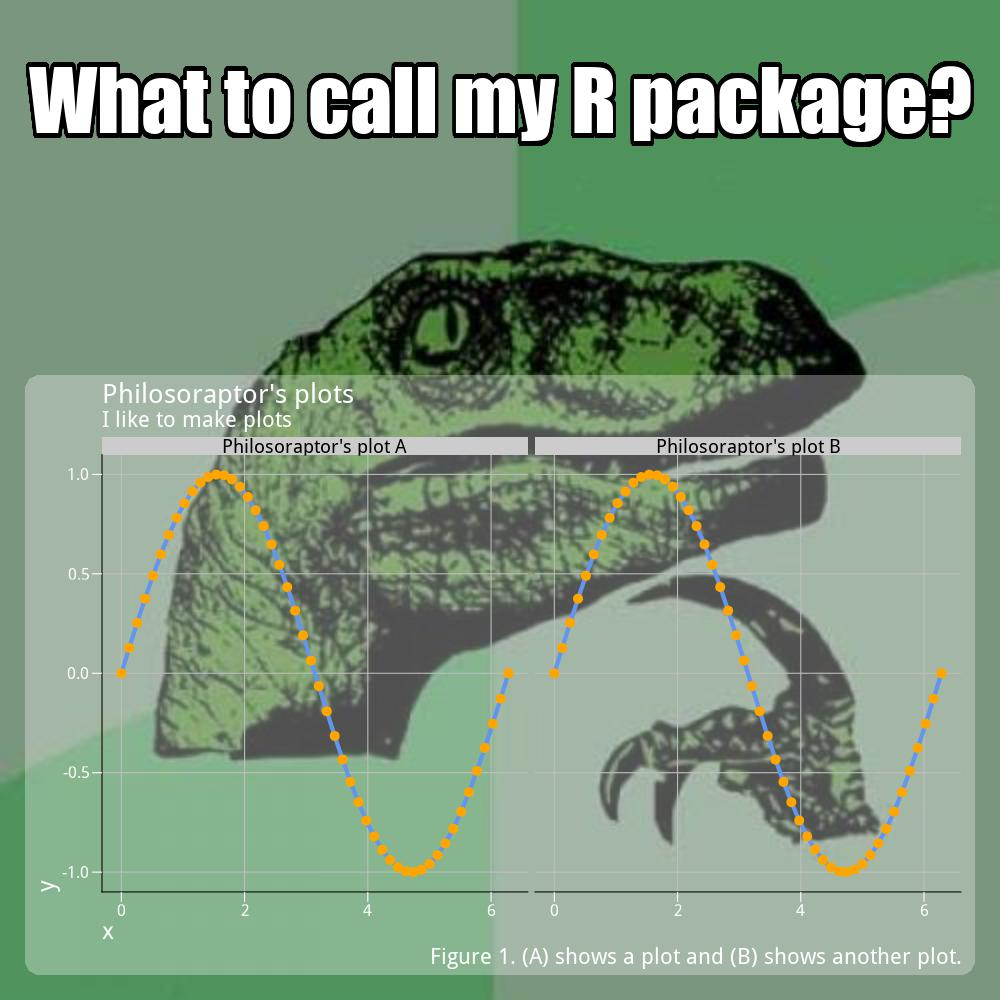
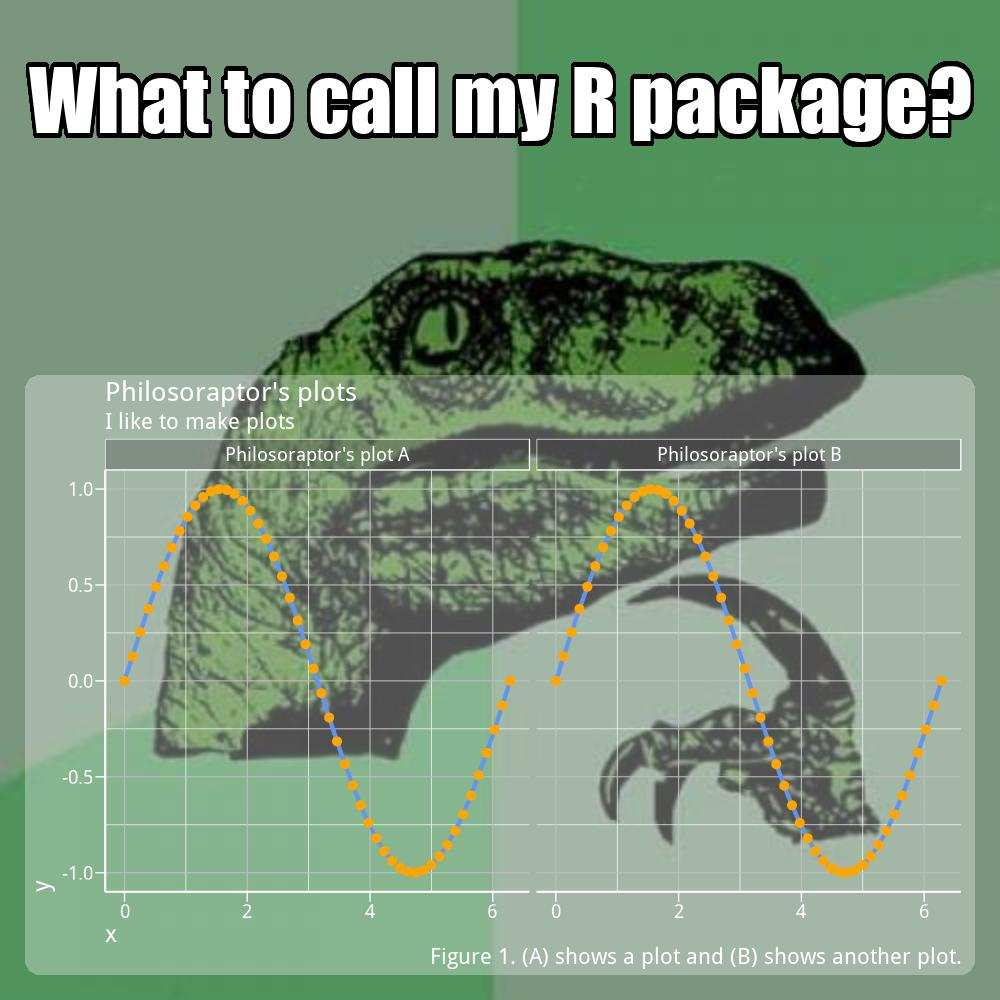
Update docs.

diff --git a/docs/articles/memery.html b/docs/articles/memery.html
@@ -197,17 +197,29 @@ p &lt;-<span class="st"> </span><span class="kw">ggplot</span>(d, <span class="k
 <span class="kw"><a href="../reference/meme.html">meme</a></span>(loc, lab, <span class="st">"meme4a.jpg"</span>, <span class="dt">inset =</span> p)</code></pre></div>
 <p style="text-align:center;">
 <img src="meme4a.jpg"></p>
-<p>Note the default semi-transparent background that allows the meme image to show through when the inset has a large coverage area. The style includes rounded corners. This is from the <code>grid</code> package. It is a rectangle layer in the same viewport as <code>p</code>; it is not part of the ggplot theme. The latter is separate and can be controlled by passing your own theme to <code>ggtheme</code> or setting this to NULL, which falls back on whatever theme is set for your plot <code>p</code>. The default theme for meme plots comes from <code>memetheme</code>.</p>
-<p>An opaque background for the inset is more suitable for a thumbnail image that does not get in the way of the meme. The following example shows a bottom left corner inset graphic. An empty theme is used since there is no room in the inset for plot annotations.</p>
-<div class="sourceCode"><pre class="sourceCode r"><code class="sourceCode r"><span class="kw">library</span>(cowplot)
-p2 &lt;-<span class="st"> </span><span class="kw">ggplot</span>(<span class="kw">data_frame</span>(<span class="dt">x =</span> <span class="kw">rnorm</span>(<span class="dv">10000</span>)), <span class="kw">aes</span>(x)) +<span class="st"> </span><span class="kw">geom_density</span>(<span class="dt">adjust =</span> <span class="dv">2</span>, 
-    <span class="dt">size =</span> <span class="dv">1</span>) +<span class="st"> </span><span class="kw">theme_nothing</span>()
+<p>Note the default semi-transparent background that allows the meme image to show through when the inset has a large coverage area. The style includes rounded corners. This is from the <code>grid</code> package. It is a rectangle layer in the same viewport as <code>p</code>; it is not part of the ggplot theme. The latter is separate and can be controlled by passing your own theme to <code>ggtheme</code> or setting this to <code>NULL</code>, which falls back on whatever theme is set for your plot <code>p</code>. The default theme for meme plots comes from <code>memetheme</code>. Naturally, the theme will need to be customized for many meme plots because underlying meme images are arbitrary.</p>
+<div id="inset-templates-thumbnails" class="section level3">
+<h3 class="hasAnchor">
+<a href="#inset-templates-thumbnails" class="anchor"></a>Inset templates: thumbnails</h3>
+<p>The graph overlay does not fit well, namely the annotations. This will be adjusted in a moment. First, a quick look at other position templates. An opaque background for the inset is more suitable for a thumbnail image that does not get in the way of the meme. The following example shows a bottom left corner inset graphic. An empty theme is used since there is no room in the inset for plot annotations.</p>
+<div class="sourceCode"><pre class="sourceCode r"><code class="sourceCode r">p2 &lt;-<span class="st"> </span><span class="kw">ggplot</span>(<span class="kw">data_frame</span>(<span class="dt">x =</span> <span class="kw">rnorm</span>(<span class="dv">10000</span>)), <span class="kw">aes</span>(x)) +<span class="st"> </span><span class="kw">geom_density</span>(<span class="dt">adjust =</span> <span class="dv">2</span>, 
+    <span class="dt">colour =</span> <span class="st">"white"</span>, <span class="dt">size =</span> <span class="dv">1</span>)
 pos &lt;-<span class="st"> </span><span class="kw">list</span>(<span class="dt">w =</span> <span class="fl">0.2</span>, <span class="dt">h =</span> <span class="fl">0.2</span>, <span class="dt">x =</span> <span class="fl">0.125</span>, <span class="dt">y =</span> <span class="fl">0.125</span>)
 <span class="kw"><a href="../reference/meme.html">meme</a></span>(loc, lab[<span class="dv">1</span>], <span class="st">"meme4b.jpg"</span>, <span class="dt">inset =</span> p2, <span class="dt">inset_bg =</span> <span class="kw">list</span>(<span class="dt">fill =</span> <span class="st">"dodgerblue"</span>, 
-    <span class="dt">col =</span> <span class="st">"black"</span>), <span class="dt">inset_pos =</span> pos)</code></pre></div>
+    <span class="dt">col =</span> <span class="st">"black"</span>), <span class="dt">inset_pos =</span> pos, <span class="dt">ggtheme =</span> <span class="kw">theme_void</span>())</code></pre></div>
 <p style="text-align:center;">
 <img src="meme4b.jpg"></p>
-<p>Since the philosoraptor image is a bit small for the detailed plot above, it is enlarged below when including the inset plot again. For now, drop the second text label. It will be relocated later.</p>
+<p>Above, the size and position was specified explicitly with <code>pos</code>. However, the same could be done using <code><a href="../reference/inset.html">inset_position(type = "bl")</a></code>. The available position templates include the four corners via <code>tl</code>, <code>tr</code>, <code>br</code> and <code>bl</code> for top right, top left, bottom left and bottom right, respectively. There is also a <code>center</code> option. <code>inset_position</code> also takes <code>size</code> and <code>margin</code> arguments to further specify the thumbnail placement.</p>
+<div class="sourceCode"><pre class="sourceCode r"><code class="sourceCode r">pos &lt;-<span class="st"> </span><span class="kw"><a href="../reference/inset.html">inset_position</a></span>(<span class="st">"bl"</span>, <span class="dt">size =</span> <span class="kw">c</span>(<span class="fl">0.4</span>, <span class="fl">0.2</span>), <span class="dt">margin =</span> <span class="kw">c</span>(<span class="fl">0.025</span>, <span class="fl">0.05</span>))
+<span class="kw"><a href="../reference/meme.html">meme</a></span>(loc, lab[<span class="dv">1</span>], <span class="st">"meme4b2.jpg"</span>, <span class="dt">inset =</span> p2, <span class="dt">inset_bg =</span> <span class="kw">list</span>(<span class="dt">fill =</span> <span class="st">"firebrick1"</span>, 
+    <span class="dt">col =</span> <span class="st">"white"</span>), <span class="dt">inset_pos =</span> pos, <span class="dt">ggtheme =</span> <span class="kw">theme_void</span>())</code></pre></div>
+<p style="text-align:center;">
+<img src="meme4b2.jpg"></p>
+</div>
+<div id="improved-fit" class="section level3">
+<h3 class="hasAnchor">
+<a href="#improved-fit" class="anchor"></a>Improved fit</h3>
+<p>The philosoraptor image is a bit small for the first detailed plot shown above where the annotations go off the image. For convenience, it is enlarged below by simply using <code>mult = 2</code> when including the full graph again. For now, drop the second text label. It will be relocated later.</p>
 <div class="sourceCode"><pre class="sourceCode r"><code class="sourceCode r"><span class="kw"><a href="../reference/meme.html">meme</a></span>(loc, lab[<span class="dv">1</span>], <span class="st">"meme4c.jpg"</span>, <span class="dt">size =</span> <span class="dv">2</span>, <span class="dt">inset =</span> p, <span class="dt">mult =</span> <span class="dv">2</span>)</code></pre></div>
 <p style="text-align:center;">
 <img src="meme4c.jpg"></p>
@@ -219,6 +231,7 @@ pos &lt;-<span class="st"> </span><span class="kw">list</span>(<span class="dt">
 <p>You can also increase the radius of the rounded corners, with, e.g.</p>
 <div class="sourceCode"><pre class="sourceCode r"><code class="sourceCode r"><span class="kw">list</span>(<span class="dt">r =</span> <span class="kw">unit</span>(<span class="fl">0.1</span>, <span class="st">"snpc"</span>))</code></pre></div>
 <p>Setting to zero will remove the rounding.</p>
+</div>
 </div>
 <div id="multiple-labels-and-vector-arguments" class="section level2">
 <h2 class="hasAnchor">

diff --git a/docs/reference/inset.html b/docs/reference/inset.html
@@ -156,7 +156,7 @@
     <p>Templates for the position and background of a ggplot inset.</p>
     
 
-    <pre class="usage"><span class='fu'>inset_position</span>(<span class='kw'>type</span> <span class='kw'>=</span> <span class='st'>"default"</span>)
+    <pre class="usage"><span class='fu'>inset_position</span>(<span class='kw'>type</span> <span class='kw'>=</span> <span class='st'>"default"</span>, <span class='kw'>size</span> <span class='kw'>=</span> <span class='fl'>0.2</span>, <span class='kw'>margin</span> <span class='kw'>=</span> <span class='fl'>0.025</span>)
 
 <span class='fu'>inset_background</span>(<span class='kw'>type</span> <span class='kw'>=</span> <span class='st'>"default"</span>)
 
@@ -169,40 +169,63 @@
       <th>type</th>
       <td><p>character, name of template.</p></td>
     </tr>
+    <tr>
+      <th>size</th>
+      <td><p>numeric, width (length-1) or width and height (length-2) of inset. See details.</p></td>
+    </tr>
+    <tr>
+      <th>margin</th>
+      <td><p>numeric, x-axis margin (length-1) or x- and y-axis margins (length-2) around corner insets. See details.</p></td>
+    </tr>
     </table>
     
     <h2 class="hasAnchor" id="value"><a class="anchor" href="#value"></a>Value</h2>
 
-    <p>a list of arguments passed to either <code>inset_pos</code> or <code>inset_background</code> in <code>meme</code>.</p>
+    <p>a list of arguments passed to either <code>inset_pos</code> or <code>inset_bg</code> in <code>meme</code>.</p>
     
     <h2 class="hasAnchor" id="details"><a class="anchor" href="#details"></a>Details</h2>
 
     <p><code>inset_position</code> and <code>inset_background</code> assist with some basic options for position and background of the optional ggplot inset graphic.
 <code>inset_templates</code> can be used to view the available templates. See examples.
-If a template is not available to suit your needs, provide your own argument list to <code>meme</code>.</p>
+If a template is not available to suit your needs, provide your own argument list to <code>meme</code>
+in the form of, e.g., <code>inset_pos = list(w = 0.95, h = 0.6, x = 0.5, y = 0.325)</code>.</p><h3>Size and position</h3>
+    The coordinate system for the meme plot ranges from zero to one in x and y.
+The width, height and (x,y) center defined by <code>inset_position</code> arguments therefore take values between zero and one.
+    The default position is for an inset plot that takes up 95\<!-- % of the width and 60\\% of the height of the meme plot, -->
+with 2.5\<!-- % margins on the sides and bottom. Other templates include four corner thumbnails. -->
+To use these, set <code>type</code> equal to <code>"tl"</code>, <code>"tr"</code>, <code>"br"</code> or <code>"bl"</code>,
+for top right, top left, bottom right and bottom left, respectively.
+There is also a <code>"center"</code> type.
+    When specifying the corner or center inset types, the inset is a square thumbnail with width and height of 0.2 units (20\<!-- %) -->
+and 0.025 (2.5\<!-- %) margins from the edges of the plot. However, these templates are not absolute. -->
+You can further adjust the size and distance from the edges using <code>size</code> and <code>margin</code>.
+These arguments can be scalar, in which case the inset remains square and the margins are equal.
+If a length-2 vector, <code>size</code> can provide unique width and height for a rectangular inset.
+Similarly, <code>margin</code> can provide different margins for the distance to a side vs. the top or bottom edge of the meme plot.
+For <code>type = "center"</code>, <code>size</code> is used but <code>margin</code> is ignored.
+    <code>size</code> and <code>margin</code> are provided for convenience, adding more control over the position templates.
+If you require more specific size and position control, simply pass your own 4-argument list as described above.
+This is the structure generated by <code>inset_position</code> for any <code>type</code> and expected by <code>meme</code>.
+    <h3>Background</h3>
+    For <code>inset_background</code>, the few templates all revolve around the <code>type = "default"</code> template.
+<code>type = "sq"</code> simply removes the rounded corners. <code>"op"</code> provides a fully opaque white background instead of the default 50\<!-- % transparency. -->
+<code>"opsq"</code> does both. <code>"blank"</code> hides the background panel.
+There is no substantial need to provide many templates because, as with <code>inset_position</code>,
+<code>inset_background</code> generates a simple list of a few arguments that can be easily provided to <code>meme</code> explicitly
+without the use of <code>inset_background</code>.
     
 
     <h2 class="hasAnchor" id="examples"><a class="anchor" href="#examples"></a>Examples</h2>
-    <pre class="examples"><div class='input'><span class='fu'>inset_templates</span>(<span class='st'>"position"</span>)</div><div class='output co'>#&gt; [1] "default" "topleft"</div><div class='input'><span class='fu'>inset_templates</span>(<span class='st'>"background"</span>)</div><div class='output co'>#&gt; [1] "default"</div><div class='input'><span class='fu'>inset_position</span>()</div><div class='output co'>#&gt; $w
-#&gt; [1] 0.95
-#&gt; 
-#&gt; $h
-#&gt; [1] 0.6
-#&gt; 
-#&gt; $x
-#&gt; [1] 0.5
-#&gt; 
-#&gt; $y
-#&gt; [1] 0.325
-#&gt; </div><div class='input'><span class='fu'>inset_background</span>()</div><div class='output co'>#&gt; $fill
-#&gt; [1] "#FFFFFF50"
-#&gt; 
-#&gt; $col
-#&gt; [1] NA
-#&gt; 
-#&gt; $r
-#&gt; [1] 0.025snpc
-#&gt; </div></pre>
+    <pre class="examples"><span class='co'># NOT RUN {</span>
+<span class='fu'>inset_templates</span>(<span class='st'>"position"</span>)
+<span class='fu'>inset_templates</span>(<span class='st'>"background"</span>)
+<span class='fu'>inset_position</span>()
+<span class='fu'>inset_position</span>(<span class='st'>"br"</span>)
+<span class='fu'>inset_position</span>(<span class='st'>"br"</span>, <span class='kw'>size</span> <span class='kw'>=</span> <span class='fl'>0.4</span>, <span class='kw'>margin</span> <span class='kw'>=</span> <span class='fl'>0</span>)
+<span class='fu'>inset_background</span>()
+<span class='fu'>inset_background</span>(<span class='st'>"opsq"</span>)
+<span class='fu'>inset_background</span>(<span class='st'>"blank"</span>)
+<span class='co'># }</span></pre>
   </div>
   <div class="col-md-3 hidden-xs hidden-sm" id="sidebar">
     <h2>Contents</h2>

diff --git a/docs/reference/memetheme.html b/docs/reference/memetheme.html
@@ -156,14 +156,22 @@
     <p>The default ggplot2 theme for meme plots.</p>
     
 
-    <pre class="usage"><span class='fu'>memetheme</span>(<span class='kw'>base_col</span> <span class='kw'>=</span> <span class='st'>"white"</span>)</pre>
+    <pre class="usage"><span class='fu'>memetheme</span>(<span class='kw'>base_size</span> <span class='kw'>=</span> <span class='fl'>14</span>, <span class='kw'>base_family</span> <span class='kw'>=</span> <span class='st'>""</span>, <span class='kw'>base_col</span> <span class='kw'>=</span> <span class='st'>"white"</span>)</pre>
     
     <h2 class="hasAnchor" id="arguments"><a class="anchor" href="#arguments"></a> Arguments</h2>
     <table class="ref-arguments">
     <colgroup><col class="name" /><col class="desc" /></colgroup>
     <tr>
+      <th>base_size</th>
+      <td><p>numric, the base size.</p></td>
+    </tr>
+    <tr>
+      <th>base_family</th>
+      <td><p>character, the base font family.</p></td>
+    </tr>
+    <tr>
       <th>base_col</th>
-      <td><p>the base color for all title text and axis lines and ticks.</p></td>
+      <td><p>character, the base color for all title text and axis lines and ticks.</p></td>
     </tr>
     </table>
     

diff --git a/docs/news/index.html b/docs/news/index.html
@@ -164,6 +164,8 @@
 <code>showtext</code>, <code>showtextdb</code> and <code>sysfonts</code> are now fully loaded ahead of <code>memery</code>.</li>
 <li>Font sizing adjustments have been made to attempt to maintain as consistent as possible a text display on jpg vs. png outputs. Better anti-aliasing may be achieved using png, particularly regarding the text, though they will be fairly similar.</li>
 <li>Added introduction vignette content.</li>
+<li>Added templates to <code>inset_background</code> and <code>inset_position</code> helpers.</li>
+<li>Added <code>size</code> and <code>margin</code> arguments for additional user control of <code>inset_background</code> thumbnail inset templates.</li>
 <li>Added resource image file for examples and testing.</li>
 <li>Added unit tests.</li>
 <li>Minor bug fixes.</li>
